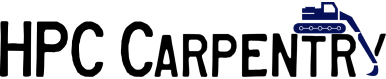
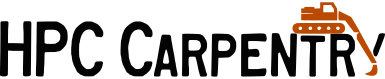
Tweak and change color schem

diff --git a/pages/maintainers.html b/pages/maintainers.html
@@ -7,17 +7,15 @@ excerpt: Maintainers manage lesson amendments and upgrades for our global Carpen
 
 {% include lazyload.html %}
 
-<p>Carpentries Maintainers work with the community to make sure that lessons stay up-to-date, accurate, functional and cohesive.
+<p>HPC Carpentry Maintainers work with the community to make sure that lessons stay up-to-date, accurate, functional and cohesive.
 Maintainers can expect to acquire this <a href="https://github.com/carpentries/commons/blob/master/text-for-maintainers.md">skill set</a>.
-<a href="https://docs.carpentries.org/topic_folders/maintainers/index.html">Find out more about becoming a Maintainer.</a></p>
+To become a maintainer <a href="/contact">Contact us</a>.</p>
 
-<p>This page lists the Maintainers who have already consented to be listed on our website. If you are a badged
+<p>This page lists the Maintainers who have already consented to be listed on our website. If you are a
   Maintainer whose details do not appear here, but you would like to be listed, please 
-  <a href="https://amy.carpentries.org/">update your Instructor profile</a> in AMY and agree to make
-  your profile public. <b>Login with GitHub</b> and save your  
-  changes. If you are unable to log in, please 
-  <a href="mailto:{{site.contact}}">email us</a>. </p>
+  <a href="/contact">Contact us</a>. </p>
 <br><br><br>
+<!--
 <div class="container">
 
 {% assign people_list = site.data.all_badged_people | where: "is_maintainer", "true" %}
@@ -25,3 +23,4 @@ Maintainers can expect to acquire this <a href="https://github.com/carpentries/c
 {% include community_profiles.md %}
 
 </div>
+-->

diff --git a/_sass/_01_settings_colors.scss b/_sass/_01_settings_colors.scss
@@ -36,9 +36,9 @@ $ci-6: #A1D044;		// green
 /* Software Carpentry colors
 ---------------------------------------- */
 
-$swc-blue: #071159;       // Software Carpentry dark blue
-$swc-blue-med: #394EEF;	  // Brighter version of Software Carpentry blue
-$swc-blue-light: #e3e6fd; // Medium version of Software Carpentry blue
+$swc-blue: #BA4A00; // #071159;       // Software Carpentry dark blue
+$swc-blue-med: #F39C12; // #394EEF;	  // Brighter version of Software Carpentry blue
+$swc-blue-light: #FDEBD0; // #e3e6fd; // Medium version of Software Carpentry blue
 
 /* Foundation Color Variables
 ------------------------------------------------------------------- */

diff --git a/blog/index.html b/blog/index.html
@@ -1,7 +1,7 @@
 ---
 layout: blog
-title: "The Carpentries Blog"
-teaser: "This is the archive of The Carpentries Blog"
+title: "HPC Carpentry Blog"
+teaser: "This is the archive of the HPC Carpentry Blog"
 header:
     image_fullwidth: "header-workshop-participants.jpg"
 ---

diff --git a/pages/community-lessons.md b/pages/community-lessons.md
@@ -24,7 +24,7 @@ permalink: "/community-lessons/"
 The HPC Carpentry community is committed to a collaborative and open process for
 lesson development and to sharing teaching materials. We
 provide two avenues for community members to share lesson
-materials - **The HPC Carpentry Incubator** and **The HPC Carpentry Lab**.
+materials - **HPC Carpentry Incubator** and **HPC Carpentry Lab**.
 
 [HPC Carpentry Incubator](#hpc-carpentry-incubator) is for:
 * Collaborative lesson development (from conceptual to stable lessons).
@@ -59,7 +59,14 @@ Incubator,
 [contact us]({{ site.contact }}).
 Please read the information on our [Development of Lessons page](/involved-lessons/)
 if you would like to contribute to the development of a lesson already present
-in The HPC Carpentry Incubator.
+in the HPC Carpentry Incubator.
+
+## Lessons in the HPC Carpentry Incubator
+
+{% assign lesson_list = site.data.community_lessons | where: "hpc_carpentry_org","hpc-carpentry-incubator" %}
+{% include lesson_table %}
+
+<hr>
 
 ## HPC Carpentry Lab
 
@@ -76,22 +83,19 @@ At this time, we are not accepting lesson submissions to HPC Carpentry Lab. If
 you are interested in having a lesson reviewed for inclusion in the Lab, please
 submit it first to the Incubator.
 
-> **Looking for a list of the Carpentries core lessons?** Follow the links below.
-> * [Data Carpentry Core Lessons](https://datacarpentry.org/lessons/)
-> * [Software Carpentry Core Lessons](https://software-carpentry.org/lessons/index.html)
-> * [Library Carpentry Core Lessons](https://librarycarpentry.org/lessons/)
-
-## Lessons in the HPC Carpentry Incubator
-
-{% assign lesson_list = site.data.community_lessons | where: "hpc_carpentry_org","hpc-carpentry-incubator" %}
-{% include lesson_table %}
-
-<hr>
-
+<!--
 ## Lessons in the HPC Carpentry Lab
 
 {% assign lesson_list = site.data.community_lessons | where: "hpc_carpentry_org","hpc-carpentry-lab" %}
 {% include lesson_table %}
+-->
+
+<hr>
+
+> **Looking for a list of the Carpentries core lessons?** Follow the links below.
+> * [Data Carpentry Core Lessons](https://datacarpentry.org/lessons/)
+> * [Software Carpentry Core Lessons](https://software-carpentry.org/lessons/index.html)
+> * [Library Carpentry Core Lessons](https://librarycarpentry.org/lessons/)
 
 <hr>
 
@@ -125,7 +129,7 @@ submit it first to the Incubator.
 {% for t in lesson_topics %}
 
 {% assign t_pretty = t | slugify: 'pretty' %}
-<li><a href="#{{t_pretty}}">{{ t| capitalize | replace: "-", " " }}</a> {% include n-lesson-by-topic data=site.data.community_lessons topic=t %}</li>
+<li><a href="#{{t_pretty}}">{{ t| replace: "-", " " }}</a> {% include n-lesson-by-topic data=site.data.community_lessons topic=t %}</li>
 
 {% endfor %}
 
